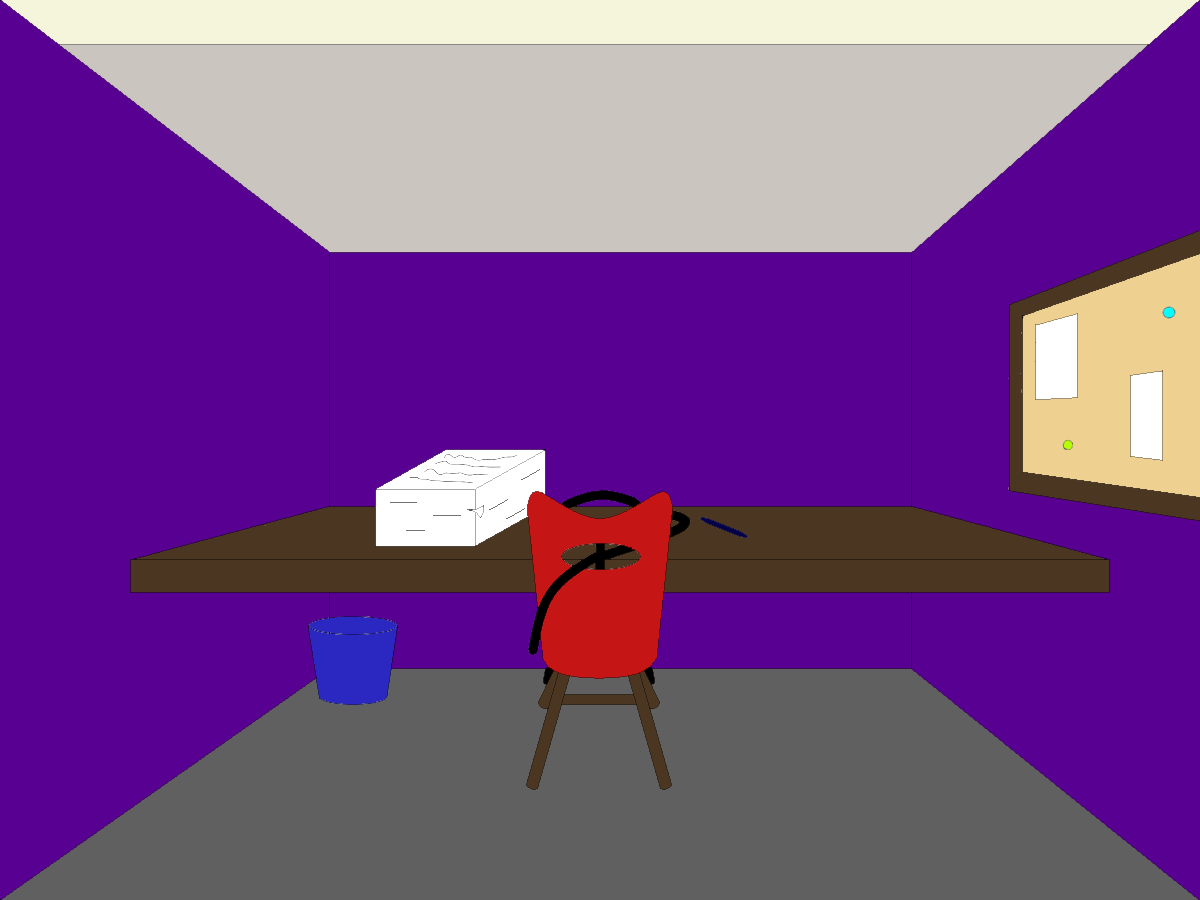
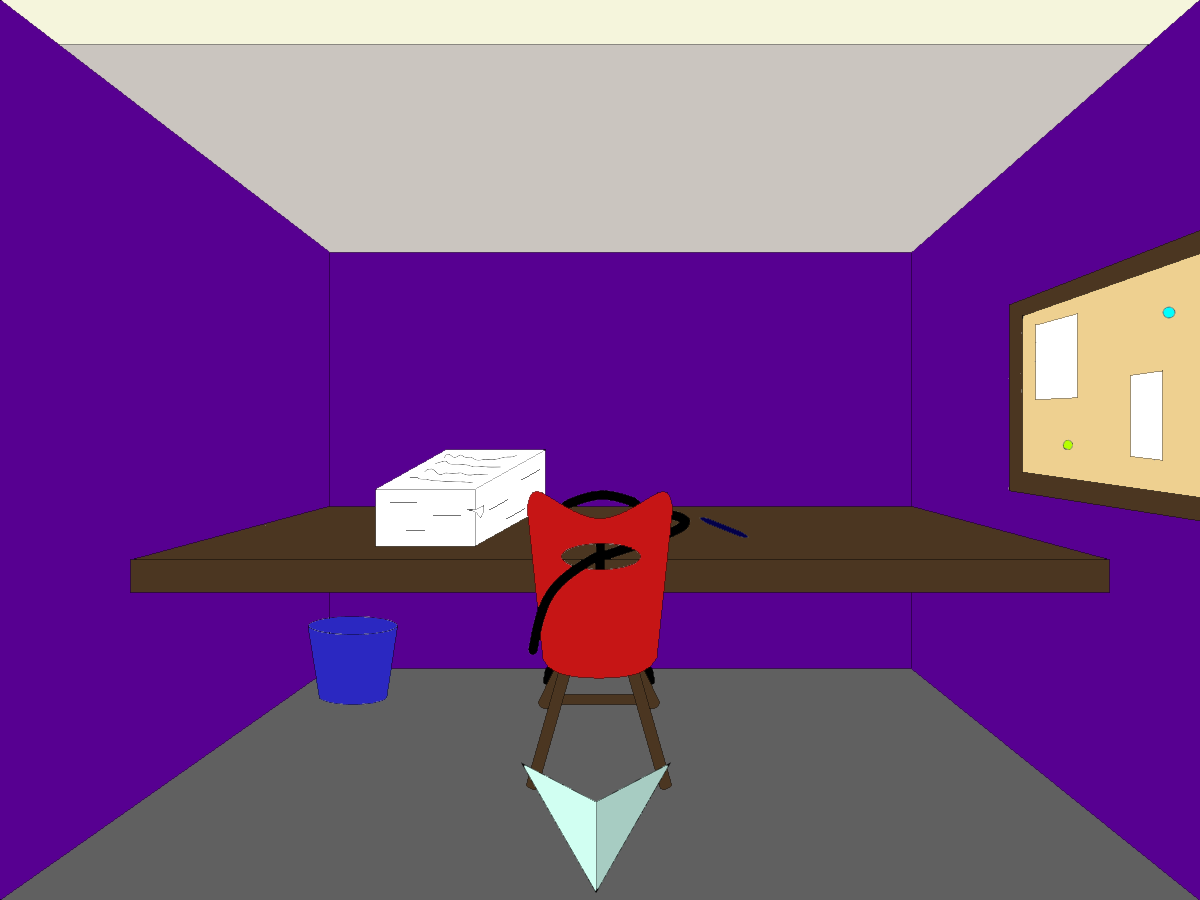
Añadido sector sur

Changed region(s): [[0.4317, 0.84, 0.555, 0.9956]]

diff --git a/main.js b/main.js
@@ -1,12 +1,12 @@
 import { Juego } from "./scripts/juego.js";
-import { Area, Escena, ManejadorDeDialogos, ManejadorDeEscenas, ManejadorDeItems, Item, Objeto, ManejadorDeFlags, Flag} from "./scripts/utilidades.js";
+import { Area, Escena, ManejadorDeDialogos, ManejadorDeEscenas, ManejadorDeItems, Item, Objeto, ManejadorDeFlags, Flag } from "./scripts/utilidades.js";
 import { Dialogo } from "./scripts/visual.js";
 
 let juego = new Juego(1200, 900);
 
 let area = new Area(437, 333, 633, 734);
-let objeto1 = new Objeto(area, juego, 
-    function() {
+let objeto1 = new Objeto(area, juego,
+    function () {
         let flag = juego.manejadorDeFlags.getFlag(0);
         if (flag.activa) {
             let dialogo = juego.manejadorDeDialogos.getDialogo(1);
@@ -15,25 +15,163 @@ let objeto1 = new Objeto(area, juego,
         }
     }
 );
-let objeto2 = new Objeto(new Area(874, 340, 1084, 700), juego, 
-    function() {
+let objeto2 = new Objeto(new Area(874, 340, 1084, 700), juego,
+    function () {
         juego.manejadorDeEscenas.cambiarEscena(1);
     }
 )
-let objeto3 = new Objeto (new Area(835, 349, 1021, 692), juego,
-    function() {
+let objeto3 = new Objeto(new Area(835, 349, 1021, 692), juego,
+    function () {
         juego.manejadorDeEscenas.cambiarEscena(2);
     }
 )
+let objetoPuertaHab3 = new Objeto(new Area(1409, 182, 1544, 819), juego,
+    function () {
+        juego.manejadorDeEscenas.cambiarEscena(3);
+    }
+);
+let objetoPuertaPas2a = new Objeto(new Area(434, 297, 563, 729), juego,
+    function () {
+        juego.manejadorDeEscenas.cambiarEscena(4);
+    }
+);
+let objetoPuertaPas2b = new Objeto(new Area(904, 462, 995, 577), juego,
+    function () {
+        juego.manejadorDeEscenas.cambiarEscena(5);
+    }
+);
+let objetoPuertaPas3 = new Objeto(new Area(827, 450, 845, 572), juego,
+    function () {
+        juego.manejadorDeEscenas.cambiarEscena(6);
+    }
+);
+let objetoPuertaSalaJefe = new Objeto(new Area(925, 443, 999, 565), juego,
+    function () {
+        juego.manejadorDeEscenas.cambiarEscena(7);
+    }
+);
+let objetoFlechaSalaJefe = new Objeto(new Area(877, 777, 1021, 906), juego,
+    function () {
+        juego.manejadorDeEscenas.cambiarEscena(5);
+    }
+);
+let objetoFlechaPas2b = new Objeto(new Area(877, 777, 1021, 906), juego,
+    function () {
+        juego.manejadorDeEscenas.cambiarEscena(4);
+    }
+);
+let objetoFlechaPas2a = new Objeto(new Area(877, 777, 1021, 906), juego,
+    function () {
+        juego.manejadorDeEscenas.cambiarEscena(3);
+    }
+);
+let objetoFlechaHab3 = new Objeto(new Area(877, 777, 1021, 906), juego,
+    function () {
+        juego.manejadorDeEscenas.cambiarEscena(1);
+    }
+);
+let objetoFlechaPas3 = new Objeto(new Area(877, 777, 1021, 906), juego,
+    function () {
+        juego.manejadorDeEscenas.cambiarEscena(5);
+    }
+);
+let objetoPuertaCubiculo1 = new Objeto(new Area(560, 329, 713, 873), juego,
+    function () {
+        juego.manejadorDeEscenas.cambiarEscena(8);
+    }
+);
+let objetoPuertaCubiculo2 = new Objeto(new Area(824, 434, 884, 612), juego,
+    function () {
+        juego.manejadorDeEscenas.cambiarEscena(9);
+    }
+);
+let objetoPuertaCubiculo3 = new Objeto(new Area(567, 311, 761, 849), juego,
+    function () {
+        juego.manejadorDeEscenas.cambiarEscena(10);
+    }
+);
+let objetoPuertaCubiculo4 = new Objeto(new Area(1102, 377, 1238, 888), juego,
+    function () {
+        juego.manejadorDeEscenas.cambiarEscena(11);
+    }
+);
+let objetoPuertaCubiculo5 = new Objeto(new Area(1006, 456, 1037, 614), juego,
+    function () {
+        juego.manejadorDeEscenas.cambiarEscena(12);
+    }
+);
+let objetoPuertaCubiculo6 = new Objeto(new Area(1129, 318, 1319, 860), juego,
+    function () {
+        juego.manejadorDeEscenas.cambiarEscena(13);
+    }
+);
+let objetoFlechaCubiculoPas2a = new Objeto(new Area(877, 777, 1021, 906), juego,
+    function () {
+        juego.manejadorDeEscenas.cambiarEscena(4);
+    }
+);
+let objetoFlechaCubiculoPas2b = new Objeto(new Area(877, 777, 1021, 906), juego,
+    function () {
+        juego.manejadorDeEscenas.cambiarEscena(5);
+    }
+);
+let Torre1 = new Objeto(new Area(850, 401, 1195, 563), juego,
+    function () {
+        juego.manejadorDeDialogos.getDialogo(2).mostrar();
+    }
+);
+let empleadoCub2 = new Objeto(new Area(853, 416, 1036, 775), juego, 
+    function () {
+        juego.manejadorDeDialogos.getDialogo(3).mostrar();
+    }
+);
+let empleadoCub6 = new Objeto(new Area(867, 507, 1021, 786), juego,
+    function () {
+        juego.manejadorDeDialogos.getDialogo(4).mostrar();
+    }
+);
+let montonTrabajo = new Objeto(new Area(724, 474, 877, 564), juego, 
+    function () {
+        juego.manejadorDeDialogos.getDialogo(5).mostrar();
+    }
+);
+let pensador = new Objeto(new Area(920, 361, 1081, 776), juego,
+    function () {
+        juego.manejadorDeDialogos.getDialogo(6).mostrar();
+    }
+);
+let archivos = new Objeto(new Area(1401, 145, 1535, 251), juego, 
+    function () {
+        juego.manejadorDeDialogos.getDialogo(7).mostrar();
+    }
+);
+
 let escena1 = new Escena(0, "./imagenes/escenas/sala-principal-dia.png", [objeto1, objeto2]);
-let escena2 = new Escena(1, "./imagenes/escenas/habitacion-2-dia.png", [objeto3]);
+let escena2 = new Escena(1, "./imagenes/escenas/habitacion-2-dia.png", [objeto3, objetoPuertaHab3]);
 let escena3 = new Escena(2, "./imagenes/escenas/sala-caja-fuerte-dia.png", [objeto2]);
-let manejadorDeEscenas = new ManejadorDeEscenas([escena1, escena2, escena3]);
+let escenaHab3 = new Escena(3, "./imagenes/escenas/habitacion-3-dia.png", [objetoPuertaPas2a, objetoFlechaHab3]);
+let escenaPas2a = new Escena(4, "./imagenes/escenas/pasillo-2a-dia.png", [objetoPuertaPas2b, objetoFlechaPas2a, objetoPuertaCubiculo1, objetoPuertaCubiculo2, objetoPuertaCubiculo4, objetoPuertaCubiculo5]);
+let escenaPas2b = new Escena(5, "./imagenes/escenas/pasillo-2b-dia-con-puerta.png", [objetoPuertaPas3, objetoPuertaSalaJefe, objetoFlechaPas2b, objetoPuertaCubiculo3, objetoPuertaCubiculo6]);
+let escenaPas3 = new Escena(6, "./imagenes/escenas/pasillo-3-dia.png", [objetoFlechaPas3]);
+let escenaSalaJefe = new Escena(7, "./imagenes/escenas/sala-jefe-dia.png", [objetoFlechaSalaJefe]);
+let escenaCubiculo1 = new Escena(8, "./imagenes/escenas/cubiculo-1-dia.png", [objetoFlechaCubiculoPas2a, Torre1]);
+let escenaCubiculo2 = new Escena(9, "./imagenes/escenas/cubiculo-2-dia.png", [objetoFlechaCubiculoPas2a, empleadoCub2]);
+let escenaCubiculo3 = new Escena(10, "./imagenes/escenas/cubiculo-3-dia.png", [objetoFlechaCubiculoPas2b]);
+let escenaCubiculo4 = new Escena(11, "./imagenes/escenas/cubiculo-4-dia.png", [objetoFlechaCubiculoPas2a, montonTrabajo, empleadoCub6]);
+let escenaCubiculo5 = new Escena(12, "./imagenes/escenas/cubiculo-5-dia.png", [objetoFlechaCubiculoPas2a, pensador, archivos]);
+let escenaCubiculo6 = new Escena(13, "./imagenes/escenas/cubiculo-6-dia.png", [objetoFlechaCubiculoPas2b]);
+let manejadorDeEscenas = new ManejadorDeEscenas([escena1, escena2, escena3, escenaHab3, escenaPas2a, escenaPas2b, escenaPas3, escenaSalaJefe, escenaCubiculo1, escenaCubiculo2, escenaCubiculo3, escenaCubiculo4, escenaCubiculo5, escenaCubiculo6]);
 juego.manejadorDeEscenas = manejadorDeEscenas;
 
 let dialogo1 = new Dialogo(["hola", "hola 2", "hola 3"]);
 let dialogo2 = new Dialogo(["Esto no creo que funcione."], "");
-let arrayDialogos = [dialogo1, dialogo2];
+let dialogoTorreApagada = new Dialogo(["Está apagado"]);
+let dialogoEmpleado = new Dialogo(["Será mejor no molestar"]);
+let dialogoDormido = new Dialogo(["Está dormido y exausto"]);
+let dialogoTrabajo = new Dialogo(["Un \"montón\" de trabajo"]);
+let dialogoPensador = new Dialogo(["Déjame en paz", "Estoy pensando en la siguiente gran jugada de la empesa"], "Empleado");
+let dialogoArchivos = new Dialogo(["Un montón de libros acerca del Sistema Operativo \"Gates\", por Bill Windows", "Inútiles en mi opinión"]);
+let arrayDialogos = [dialogo1, dialogo2, dialogoTorreApagada, dialogoEmpleado, dialogoDormido, dialogoTrabajo, dialogoPensador, dialogoArchivos];
 let manejadorDeDialogos = new ManejadorDeDialogos(arrayDialogos);
 juego.manejadorDeDialogos = manejadorDeDialogos;
 
